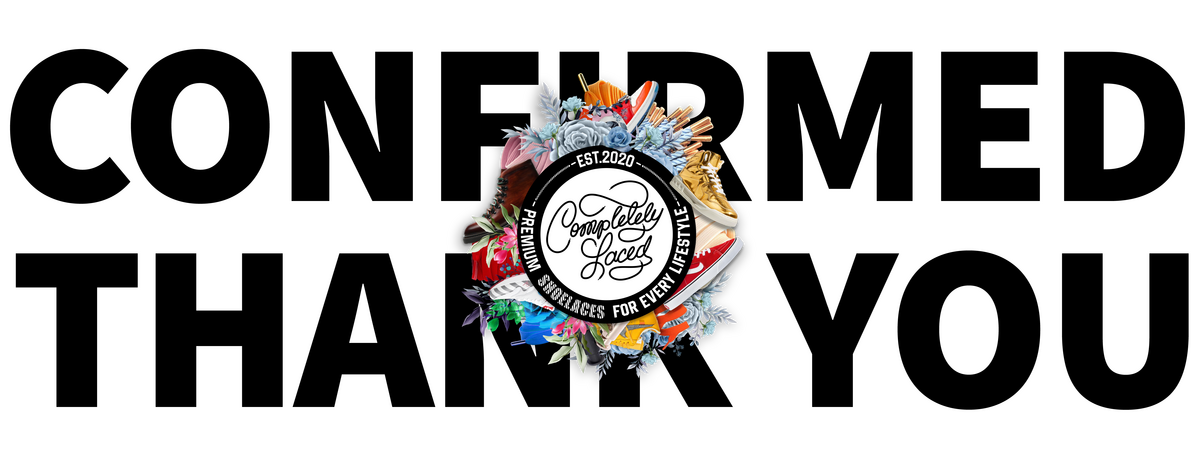
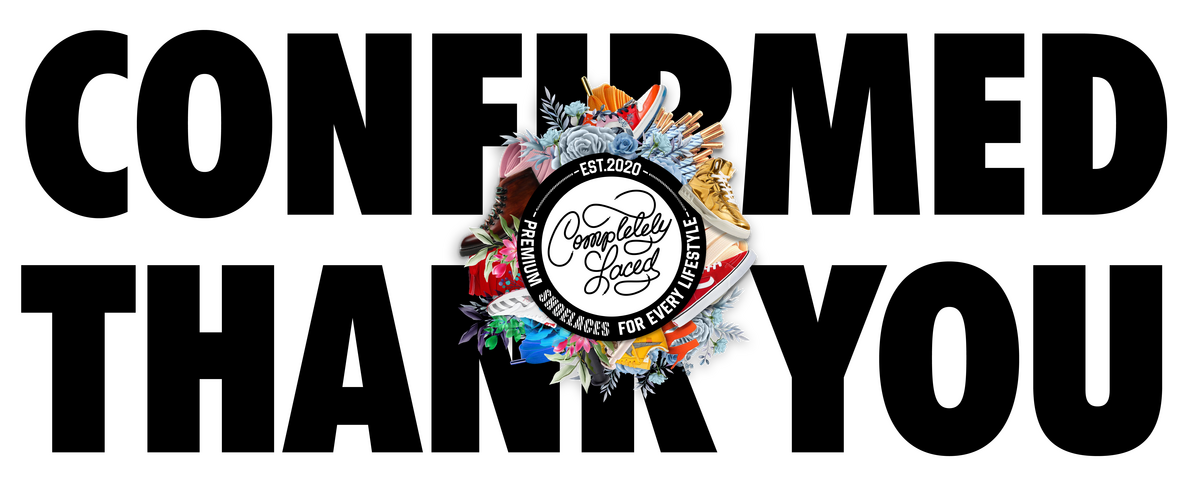
All changes done!

diff --git a/pages/index.js b/pages/index.js
@@ -69,14 +69,14 @@ export default function Home() {
 							layout="responsive"
 						/>
 					</div>
-					<h1 className={styles.open}>Opening Soon</h1>
+					<h1 className={styles.open}>OPENING SOON</h1>
 					<p className={styles.first}>Be the first to know when we launch</p>
 					<div className={styles.promo} style={{ textAlign: 'center' }}>
 						<span className={styles.boldGold}>RSVP</span> sign up for{' '}
 						<i className={styles.boldGold}>exclusive</i> updates, inventory
 						preview, <i className={styles.boldGold}>early access</i>, product{' '}
 						<i className={styles.boldGold}>gifting</i>, newsletter,{' '}
-						<i className={styles.boldGold}>private sales</i>, & extended
+						<i className={styles.boldGold}>private sales</i>, extended
 						discounts….
 					</div>
 					<form onSubmit={handleSubmit} className={styles.form}>
@@ -106,7 +106,7 @@ export default function Home() {
 
 			<div className={styles.socials}>
 				<p style={{ textAlign: 'center' }}>
-					Follow, Like, Save, Share & Subscribe
+					Follow, Like, Save, Share, Subscribe
 				</p>
 				<div
 					style={{

diff --git a/styles/globals.css b/styles/globals.css
@@ -1,16 +1,26 @@
-@import url('https://fonts.googleapis.com/css2?family=Assistant:wght@800&display=swap');
+@font-face {
+	font-family: Futura;
+	font-weight: 900;
+	src: url(/fonts/futura-extra-black.otf);
+}
+@font-face {
+	font-family: 'Mon de Tresor';
+	src: url(/fonts/mon-de-tresor.ttf);
+}
 @import url('https://fonts.googleapis.com/css2?family=Poppins:wght@300;400;700&display=swap');
 
 :root {
 	--gold-color: #eebf62;
+	font-size: 16.5px;
 }
 
 html,
 body {
 	padding: 0;
 	margin: 0;
-	font-family: Poppins, -apple-system, BlinkMacSystemFont, Segoe UI, Roboto,
-		Oxygen, Ubuntu, Cantarell, Fira Sans, Droid Sans, Helvetica Neue, sans-serif;
+	font-family: 'Mon de Tresor', -apple-system, BlinkMacSystemFont, Segoe UI,
+		Roboto, Oxygen, Ubuntu, Cantarell, Fira Sans, Droid Sans, Helvetica Neue,
+		sans-serif;
 }
 
 body {
@@ -21,7 +31,8 @@ body {
 }
 
 h1 {
-	font-family: Assistant;
+	font-family: Futura, -apple-system, BlinkMacSystemFont, 'Segoe UI', Roboto,
+		Oxygen, Ubuntu, Cantarell, 'Open Sans', 'Helvetica Neue', sans-serif;
 	font-weight: 800;
 	font-size: 3rem;
 	line-height: 2rem;

diff --git a/styles/Home.module.css b/styles/Home.module.css
@@ -134,14 +134,14 @@
 	}
 	.logo {
 		margin-left: -5px;
-		height: 200px;
-		width: 200px;
+		height: 250px;
+		width: 250px;
 	}
 	.first {
 		font-size: 0.8rem;
 	}
 	.promo {
-		font-size: 0.6rem;
+		font-size: 0.9rem;
 		/* padding: 0.3rem 0.65rem; */
 		padding: 0;
 		/* margin-bottom: 0.8rem; */
